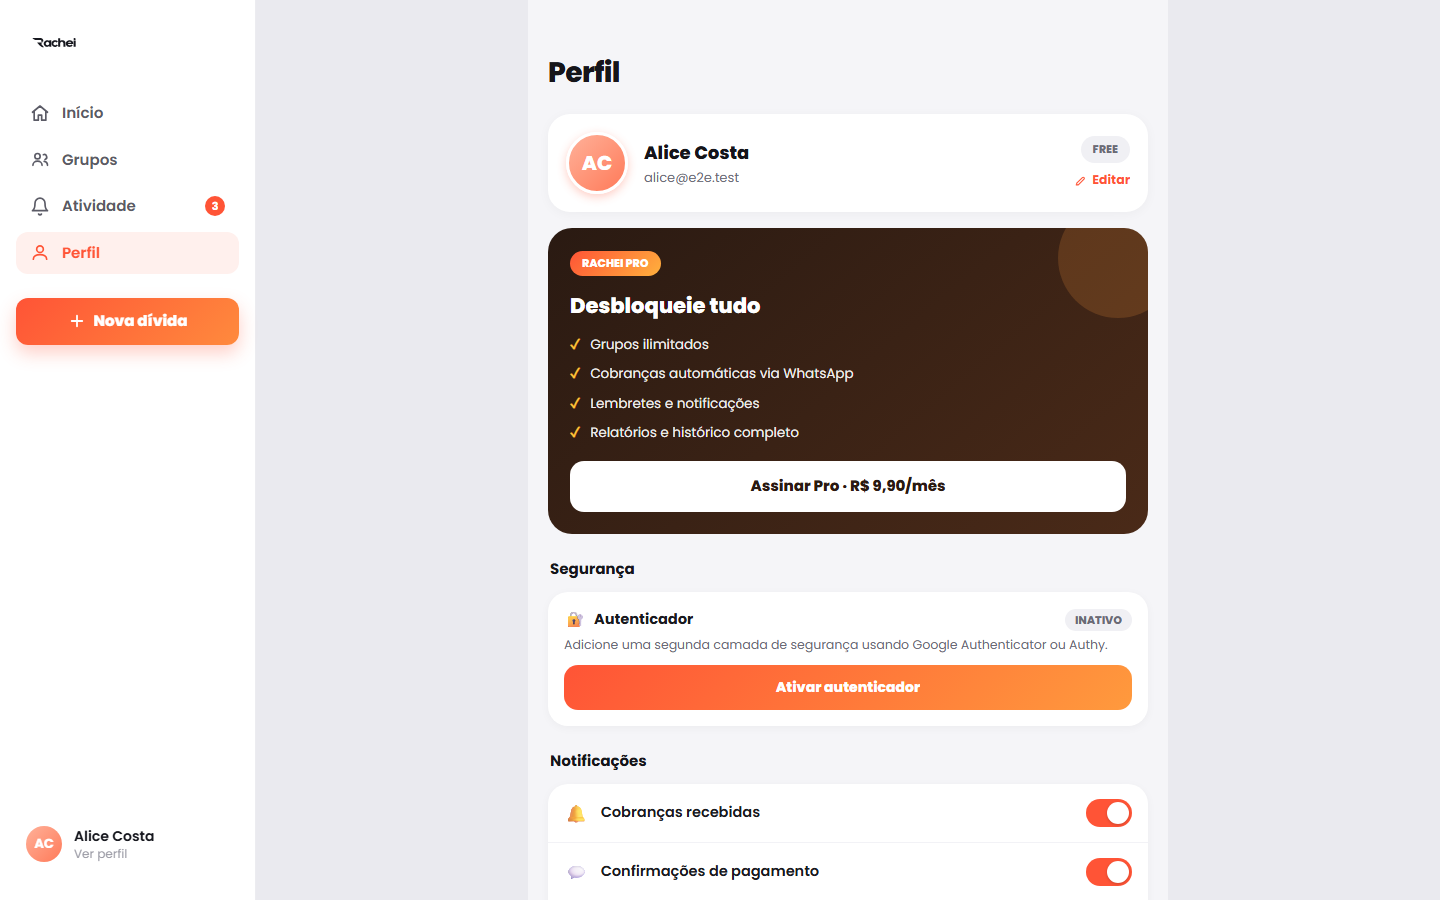
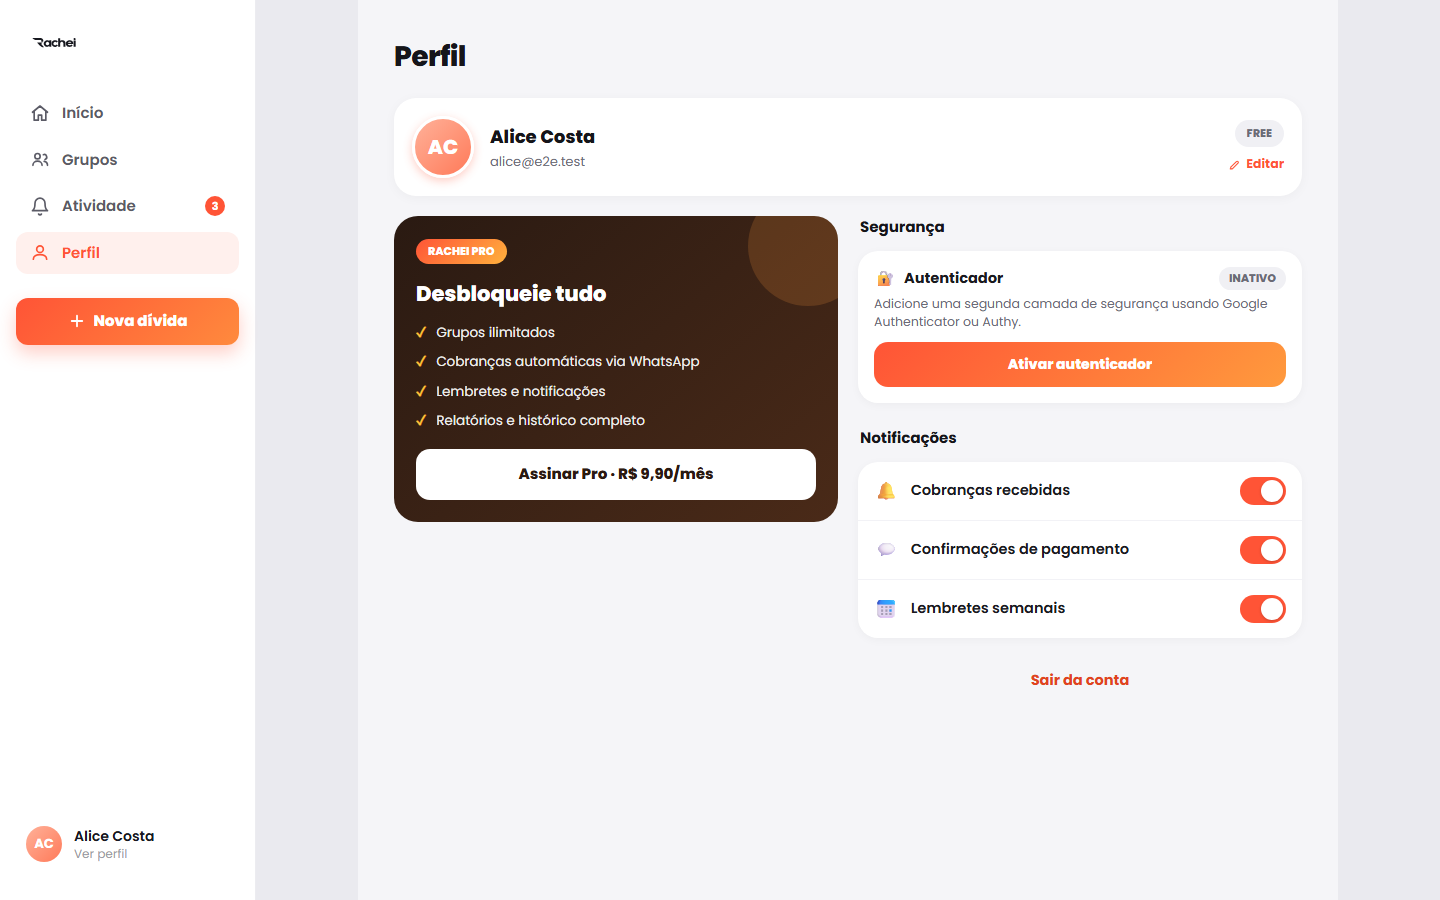
Perfil: layout desktop proprio em 2 colunas (nao mais coluna mobile centralizada)
Card do usuario no topo; esquerda plano PRO, direita seguranca + notificacoes + sair. Itens reorganizados pra usar a largura. Mobile mantem a ordem.

diff --git a/src/features/profile/ProfilePage.tsx b/src/features/profile/ProfilePage.tsx
@@ -21,6 +21,10 @@ const TOGGLES: { key: PrefKey; icon: string; label: string }[] = [
   { key: 'notifLembretes', icon: '📅', label: 'Lembretes semanais' },
 ]
 
+const sectionTitle: React.CSSProperties = {
+  fontFamily: 'Poppins, sans-serif', fontWeight: 700, fontSize: 15, color: '#15151A', margin: '0 2px 12px',
+}
+
 function Toggle({ on, onToggle, label }: { on: boolean; onToggle: () => void; label: string }) {
   return (
     <button
@@ -76,7 +80,6 @@ export default function ProfilePage() {
 
   const togglePref = async (key: PrefKey, next: boolean) => {
     if (!user) return
-    // Otimista: atualiza na hora; reverte se falhar.
     useAuthStore.getState().setUser({ ...user, [key]: next })
     try {
       await authService.updateProfile({ [key]: next })
@@ -95,120 +98,113 @@ export default function ProfilePage() {
 
   return (
     <div
-      className="no-scrollbar min-h-dvh overflow-auto lg:mx-auto lg:max-w-[640px]"
-      style={{ background: '#F5F5F8', padding: '52px 20px 110px', fontFamily: 'Poppins, sans-serif' }}
+      className="no-scrollbar min-h-dvh overflow-auto px-5 pb-28 pt-14 lg:px-9 lg:pb-10 lg:pt-9"
+      style={{ background: '#F5F5F8', fontFamily: 'Poppins, sans-serif' }}
     >
-      <div style={{ fontFamily: 'Poppins', fontWeight: 800, fontSize: 28, color: '#15151A', letterSpacing: '-0.02em', marginBottom: 20 }}>
-        Perfil
-      </div>
+      <div className="mx-auto w-full lg:max-w-[1000px]">
+        <div style={{ fontFamily: 'Poppins', fontWeight: 800, fontSize: 28, color: '#15151A', letterSpacing: '-0.02em', marginBottom: 20 }}>
+          Perfil
+        </div>
 
-      {/* User card */}
-      <div style={{ display: 'flex', alignItems: 'center', gap: 16, background: '#fff', borderRadius: 22, padding: 18, boxShadow: '0 2px 12px rgba(0,0,0,.04)' }}>
-        <div style={{
-          width: 62, height: 62, borderRadius: '50%', flexShrink: 0,
-          background: 'linear-gradient(135deg,#FFB199,#FF7A59)',
-          display: 'flex', alignItems: 'center', justifyContent: 'center',
-          color: '#fff', fontWeight: 800, fontSize: 20,
-          border: '3px solid #fff', boxShadow: '0 3px 10px rgba(255,90,60,.3)',
-        }}>
-          {getInitials(user.name)}
-        </div>
-        <div style={{ flex: 1, minWidth: 0 }}>
-          <div style={{ fontWeight: 800, fontSize: 18, color: '#15151A' }}>{user.name}</div>
-          <div style={{ fontSize: 13, color: '#6B6B76', marginTop: 2 }}>{user.email}</div>
-        </div>
-        <div style={{ display: 'flex', flexDirection: 'column', alignItems: 'flex-end', gap: 8, flexShrink: 0 }}>
-          <span style={{ padding: '5px 12px', borderRadius: 999, fontSize: 11, fontWeight: 800, background: planBadgeBg, color: planBadgeFg }}>
-            {planLabel}
-          </span>
-          <button
-            onClick={openEdit}
-            style={{
-              display: 'inline-flex', alignItems: 'center', gap: 5,
-              background: 'none', border: 'none', cursor: 'pointer',
-              color: '#FF5436', fontWeight: 700, fontSize: 12.5, padding: 0,
-            }}
-          >
-            <svg width="13" height="13" viewBox="0 0 24 24" fill="none">
-              <path d="M4 20h4L18.5 9.5a2.1 2.1 0 00-3-3L5 17v3z" stroke="#FF5436" strokeWidth="2" strokeLinejoin="round"/>
-            </svg>
-            Editar
-          </button>
-        </div>
-      </div>
-
-      {/* Pro upgrade card */}
-      {isFree ? (
-        <div style={{ marginTop: 16, borderRadius: 24, padding: 22, background: 'linear-gradient(140deg,#2A1A12,#4A2A18)', color: '#fff', position: 'relative', overflow: 'hidden' }}>
-          <div style={{ position: 'absolute', right: -30, top: -30, width: 120, height: 120, borderRadius: '50%', background: 'rgba(255,154,61,.18)' }} />
-          <div style={{ display: 'inline-block', background: 'linear-gradient(135deg,#FF5436,#FFB13D)', color: '#fff', fontSize: 11, fontWeight: 800, padding: '4px 12px', borderRadius: 999, position: 'relative' }}>
-            RACHEI PRO
+        {/* Card do usuário — largura toda */}
+        <div style={{ display: 'flex', alignItems: 'center', gap: 16, background: '#fff', borderRadius: 22, padding: 18, boxShadow: '0 2px 12px rgba(0,0,0,.04)' }}>
+          <div style={{
+            width: 62, height: 62, borderRadius: '50%', flexShrink: 0,
+            background: 'linear-gradient(135deg,#FFB199,#FF7A59)',
+            display: 'flex', alignItems: 'center', justifyContent: 'center',
+            color: '#fff', fontWeight: 800, fontSize: 20,
+            border: '3px solid #fff', boxShadow: '0 3px 10px rgba(255,90,60,.3)',
+          }}>
+            {getInitials(user.name)}
           </div>
-          <div style={{ fontFamily: 'Poppins', fontWeight: 800, fontSize: 21, marginTop: 14, position: 'relative' }}>
-            Desbloqueie tudo
+          <div style={{ flex: 1, minWidth: 0 }}>
+            <div style={{ fontWeight: 800, fontSize: 18, color: '#15151A' }}>{user.name}</div>
+            <div style={{ fontSize: 13, color: '#6B6B76', marginTop: 2 }}>{user.email}</div>
           </div>
-          <div style={{ marginTop: 14, display: 'flex', flexDirection: 'column', gap: 9, position: 'relative' }}>
-            {PRO_FEATURES.map((feat) => (
-              <div key={feat} style={{ display: 'flex', alignItems: 'center', gap: 10, fontSize: 13.5 }}>
-                <span style={{ color: '#FFC53D', fontWeight: 800 }}>✓</span>
-                <span style={{ opacity: 0.92 }}>{feat}</span>
-              </div>
-            ))}
-          </div>
-          <div style={{ marginTop: 18, background: '#fff', color: '#2A1A12', textAlign: 'center', padding: 14, borderRadius: 14, fontWeight: 800, fontSize: 15, cursor: 'pointer', position: 'relative' }}>
-            Assinar Pro · R$ 9,90/mês
-          </div>
-        </div>
-      ) : (
-        <div style={{ marginTop: 16, borderRadius: 24, padding: 22, background: 'linear-gradient(140deg,#2A1A12,#4A2A18)', color: '#fff', textAlign: 'center' }}>
-          <div style={{ fontSize: 34 }}>👑</div>
-          <div style={{ fontFamily: 'Poppins', fontWeight: 800, fontSize: 20, marginTop: 8 }}>Você é Rachei Pro</div>
-          <div style={{ fontSize: 13, opacity: 0.85, marginTop: 6 }}>Grupos ilimitados, WhatsApp e mais.</div>
-        </div>
-      )}
-
-      {/* Security */}
-      <div style={{ fontFamily: 'Poppins', fontWeight: 700, fontSize: 15, color: '#15151A', margin: '24px 2px 12px' }}>
-        Segurança
-      </div>
-      <div style={{ background: '#fff', borderRadius: 20, boxShadow: '0 2px 10px rgba(0,0,0,.04)', padding: '16px 16px' }}>
-        <TwoFactorSection />
-      </div>
-
-      {/* Notifications */}
-      <div style={{ fontFamily: 'Poppins', fontWeight: 700, fontSize: 15, color: '#15151A', margin: '24px 2px 12px' }}>
-        Notificações
-      </div>
-      <div style={{ background: '#fff', borderRadius: 20, boxShadow: '0 2px 10px rgba(0,0,0,.04)', overflow: 'hidden' }}>
-        {TOGGLES.map((t, i) => {
-          const on = user[t.key]
-          return (
-            <div
-              key={t.key}
-              style={{
-                display: 'flex', alignItems: 'center', gap: 12, padding: '15px 16px', cursor: 'pointer',
-                borderBottom: i < TOGGLES.length - 1 ? '1px solid #F2F2F6' : 'none',
-              }}
-              onClick={() => togglePref(t.key, !on)}
+          <div style={{ display: 'flex', flexDirection: 'column', alignItems: 'flex-end', gap: 8, flexShrink: 0 }}>
+            <span style={{ padding: '5px 12px', borderRadius: 999, fontSize: 11, fontWeight: 800, background: planBadgeBg, color: planBadgeFg }}>
+              {planLabel}
+            </span>
+            <button
+              onClick={openEdit}
+              style={{ display: 'inline-flex', alignItems: 'center', gap: 5, background: 'none', border: 'none', cursor: 'pointer', color: '#FF5436', fontWeight: 700, fontSize: 12.5, padding: 0 }}
             >
-              <span style={{ fontSize: 18 }}>{t.icon}</span>
-              <span style={{ flex: 1, fontWeight: 600, fontSize: 14.5, color: '#1A1A1F' }}>{t.label}</span>
-              <Toggle on={on} onToggle={() => togglePref(t.key, !on)} label={t.label} />
-            </div>
-          )
-        })}
-      </div>
+              <svg width="13" height="13" viewBox="0 0 24 24" fill="none">
+                <path d="M4 20h4L18.5 9.5a2.1 2.1 0 00-3-3L5 17v3z" stroke="#FF5436" strokeWidth="2" strokeLinejoin="round" />
+              </svg>
+              Editar
+            </button>
+          </div>
+        </div>
 
-      <button
-        type="button" onClick={handleLogout}
-        style={{ marginTop: 18, width: '100%', textAlign: 'center', color: '#E0431F', fontWeight: 700, fontSize: 14.5, padding: 14, cursor: 'pointer', background: 'none', border: 'none' }}
-      >
-        Sair da conta
-      </button>
+        {/* Desktop: 2 colunas · Mobile: empilhado */}
+        <div className="mt-4 lg:mt-5 lg:grid lg:grid-cols-2 lg:items-start lg:gap-5">
+          {/* Coluna esquerda: plano */}
+          <div>
+            {isFree ? (
+              <div style={{ borderRadius: 24, padding: 22, background: 'linear-gradient(140deg,#2A1A12,#4A2A18)', color: '#fff', position: 'relative', overflow: 'hidden' }}>
+                <div style={{ position: 'absolute', right: -30, top: -30, width: 120, height: 120, borderRadius: '50%', background: 'rgba(255,154,61,.18)' }} />
+                <div style={{ display: 'inline-block', background: 'linear-gradient(135deg,#FF5436,#FFB13D)', color: '#fff', fontSize: 11, fontWeight: 800, padding: '4px 12px', borderRadius: 999, position: 'relative' }}>RACHEI PRO</div>
+                <div style={{ fontFamily: 'Poppins', fontWeight: 800, fontSize: 21, marginTop: 14, position: 'relative' }}>Desbloqueie tudo</div>
+                <div style={{ marginTop: 14, display: 'flex', flexDirection: 'column', gap: 9, position: 'relative' }}>
+                  {PRO_FEATURES.map((feat) => (
+                    <div key={feat} style={{ display: 'flex', alignItems: 'center', gap: 10, fontSize: 13.5 }}>
+                      <span style={{ color: '#FFC53D', fontWeight: 800 }}>✓</span>
+                      <span style={{ opacity: 0.92 }}>{feat}</span>
+                    </div>
+                  ))}
+                </div>
+                <button style={{ marginTop: 18, width: '100%', background: '#fff', color: '#2A1A12', textAlign: 'center', padding: 14, borderRadius: 14, fontWeight: 800, fontSize: 15, cursor: 'pointer', border: 'none', position: 'relative', fontFamily: 'Poppins, sans-serif' }}>
+                  Assinar Pro · R$ 9,90/mês
+                </button>
+              </div>
+            ) : (
+              <div style={{ borderRadius: 24, padding: 22, background: 'linear-gradient(140deg,#2A1A12,#4A2A18)', color: '#fff', textAlign: 'center' }}>
+                <div style={{ fontSize: 34 }}>👑</div>
+                <div style={{ fontFamily: 'Poppins', fontWeight: 800, fontSize: 20, marginTop: 8 }}>Você é Rachei Pro</div>
+                <div style={{ fontSize: 13, opacity: 0.85, marginTop: 6 }}>Grupos ilimitados, WhatsApp e mais.</div>
+              </div>
+            )}
+          </div>
+
+          {/* Coluna direita: segurança + notificações + sair */}
+          <div className="mt-6 lg:mt-0">
+            <div style={sectionTitle}>Segurança</div>
+            <div style={{ background: '#fff', borderRadius: 20, boxShadow: '0 2px 10px rgba(0,0,0,.04)', padding: '16px 16px' }}>
+              <TwoFactorSection />
+            </div>
+
+            <div style={{ ...sectionTitle, marginTop: 24 }}>Notificações</div>
+            <div style={{ background: '#fff', borderRadius: 20, boxShadow: '0 2px 10px rgba(0,0,0,.04)', overflow: 'hidden' }}>
+              {TOGGLES.map((t, i) => {
+                const on = user[t.key]
+                return (
+                  <div
+                    key={t.key}
+                    style={{ display: 'flex', alignItems: 'center', gap: 12, padding: '15px 16px', cursor: 'pointer', borderBottom: i < TOGGLES.length - 1 ? '1px solid #F2F2F6' : 'none' }}
+                    onClick={() => togglePref(t.key, !on)}
+                  >
+                    <span style={{ fontSize: 18 }}>{t.icon}</span>
+                    <span style={{ flex: 1, fontWeight: 600, fontSize: 14.5, color: '#1A1A1F' }}>{t.label}</span>
+                    <Toggle on={on} onToggle={() => togglePref(t.key, !on)} label={t.label} />
+                  </div>
+                )
+              })}
+            </div>
+
+            <button
+              type="button" onClick={handleLogout}
+              style={{ marginTop: 18, width: '100%', textAlign: 'center', color: '#E0431F', fontWeight: 700, fontSize: 14.5, padding: 14, cursor: 'pointer', background: 'none', border: 'none' }}
+            >
+              Sair da conta
+            </button>
+          </div>
+        </div>
+      </div>
 
       <Toast message={toastMsg} />
 
-      {/* Edit name sheet */}
+      {/* Editar nome */}
       {editing && (
         <div
           onClick={() => { if (!savingName) setEditing(false) }}
@@ -219,9 +215,7 @@ export default function ProfilePage() {
             onClick={(e) => e.stopPropagation()}
             style={{ background: '#fff', borderRadius: '24px 24px 0 0', padding: '24px 20px 40px', width: '100%', maxWidth: 480 }}
           >
-            <div style={{ fontFamily: 'Poppins', fontWeight: 800, fontSize: 20, color: '#15151A', marginBottom: 16 }}>
-              Editar perfil
-            </div>
+            <div style={{ fontFamily: 'Poppins', fontWeight: 800, fontSize: 20, color: '#15151A', marginBottom: 16 }}>Editar perfil</div>
             <div style={{ fontSize: 12, fontWeight: 700, color: '#6B6B76', marginBottom: 8 }}>NOME</div>
             <input
               value={nameDraft}
@@ -229,24 +223,13 @@ export default function ProfilePage() {
               placeholder="Seu nome completo"
               maxLength={150}
               autoFocus
-              style={{
-                width: '100%', padding: '14px 16px', borderRadius: 14,
-                border: '2px solid #E8E8EF', fontSize: 15, color: '#1A1A1F', outline: 'none',
-                fontFamily: 'Poppins, sans-serif', boxSizing: 'border-box', marginBottom: 8,
-              }}
+              style={{ width: '100%', padding: '14px 16px', borderRadius: 14, border: '2px solid #E8E8EF', fontSize: 15, color: '#1A1A1F', outline: 'none', fontFamily: 'Poppins, sans-serif', boxSizing: 'border-box', marginBottom: 8 }}
             />
-            <div style={{ fontSize: 12, color: '#9A9AA4', marginBottom: 20 }}>
-              O e-mail não pode ser alterado por aqui.
-            </div>
+            <div style={{ fontSize: 12, color: '#9A9AA4', marginBottom: 20 }}>O e-mail não pode ser alterado por aqui.</div>
             <button
               onClick={saveName}
               disabled={savingName || !nameDraft.trim()}
-              style={{
-                width: '100%', padding: 15, borderRadius: 16, border: 'none',
-                cursor: savingName || !nameDraft.trim() ? 'not-allowed' : 'pointer',
-                background: savingName || !nameDraft.trim() ? '#EBEBEF' : 'linear-gradient(135deg,#FF5436,#FF8A3D)',
-                color: savingName || !nameDraft.trim() ? '#9A9AA4' : '#fff', fontWeight: 800, fontSize: 15.5,
-              }}
+              style={{ width: '100%', padding: 15, borderRadius: 16, border: 'none', cursor: savingName || !nameDraft.trim() ? 'not-allowed' : 'pointer', background: savingName || !nameDraft.trim() ? '#EBEBEF' : 'linear-gradient(135deg,#FF5436,#FF8A3D)', color: savingName || !nameDraft.trim() ? '#9A9AA4' : '#fff', fontWeight: 800, fontSize: 15.5, fontFamily: 'Poppins, sans-serif' }}
             >
               {savingName ? 'Salvando...' : 'Salvar'}
             </button>
